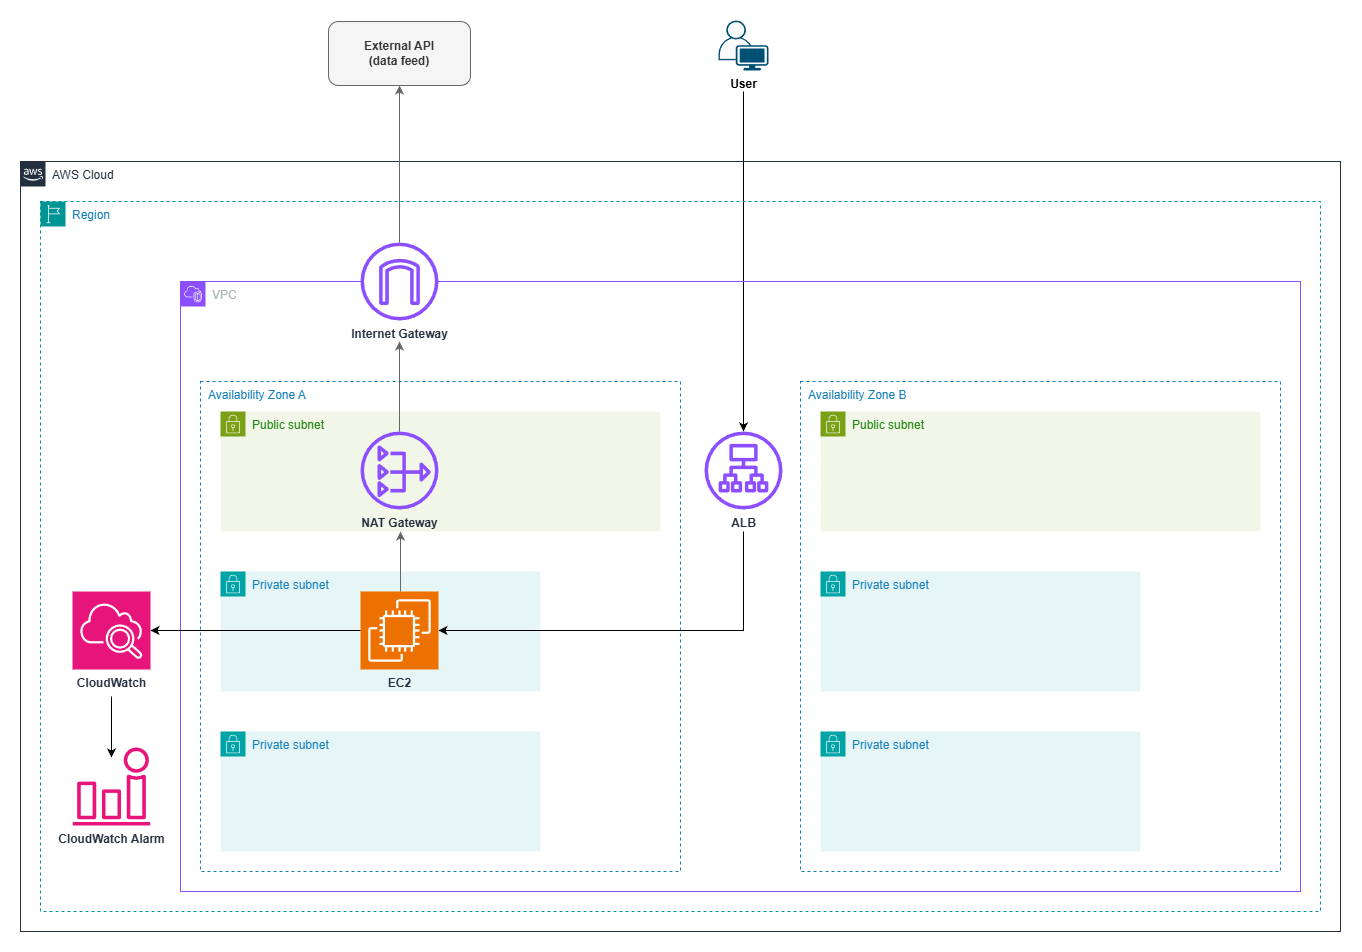
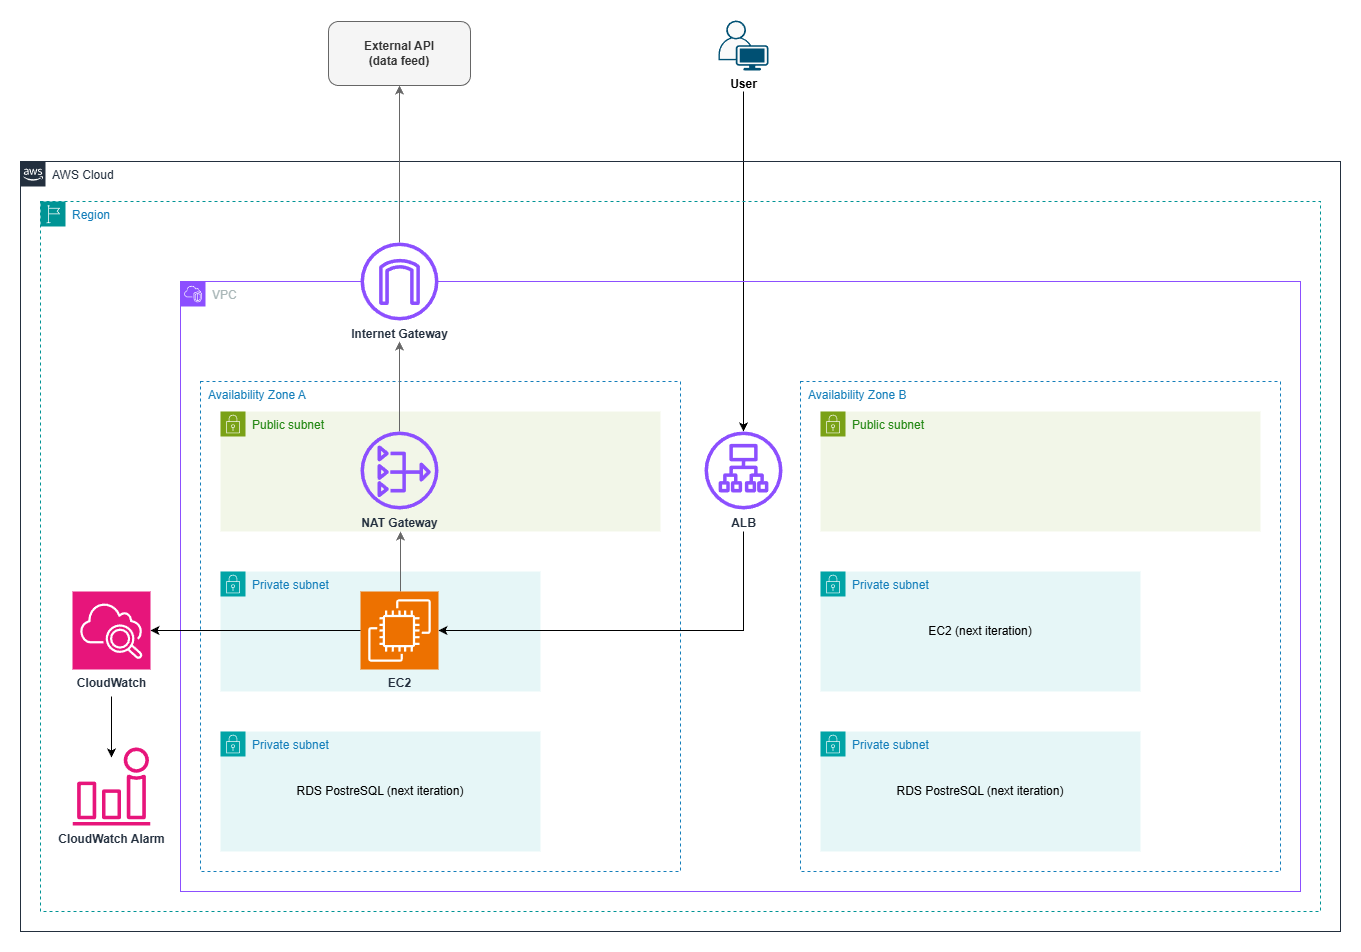
docs: clarify in-progress status and refine multi-AZ architecture
- add explicit 'Project status: In progress' section
- switch status to bullet-based progress list
- clarify iteration roadmap (network -> app+db -> HA)
- label future EC2 in second AZ
- add database tier placeholders (RDS next iteration)
- align README with architecture diagram
- improve visual clarity of multi-AZ design

diff --git a/README.md b/README.md
@@ -1,11 +1,11 @@
 # Hosted External Data Integration Service (AWS)
 
-> **Project status**  
-> MVP architecture defined and documented.  
-> Designed as a production-style hosted integration service running inside a VPC.  
-> Multi-AZ network foundation with single-instance application tier.  
-> Additional EC2 instance in a second Availability Zone planned for high-availability expansion.
-> Focuses on realistic networking, always-on compute, and operational visibility.
+### Project status: In progress  
+- MVP architecture defined and documented.  
+- Designed as a production-style hosted integration service running inside a VPC.  
+- Multi-AZ network foundation with single-instance application tier.  
+- Additional EC2 instance in a second Availability Zone planned for high-availability expansion.  
+- Focuses on realistic networking, always-on compute, and operational visibility.  
 
 ---
 
@@ -316,10 +316,10 @@ Project 2:
 The project is intentionally built in **iterations**:
 
 Iteration 1:
-Multi-AZ network, single-instance application
+Network foundation + single-instance application ingress
 
 Iteration 2:
-Multi-AZ application tier
+Application layer + database integration
 
 Iteration 3:
 Improved resilience and scaling
